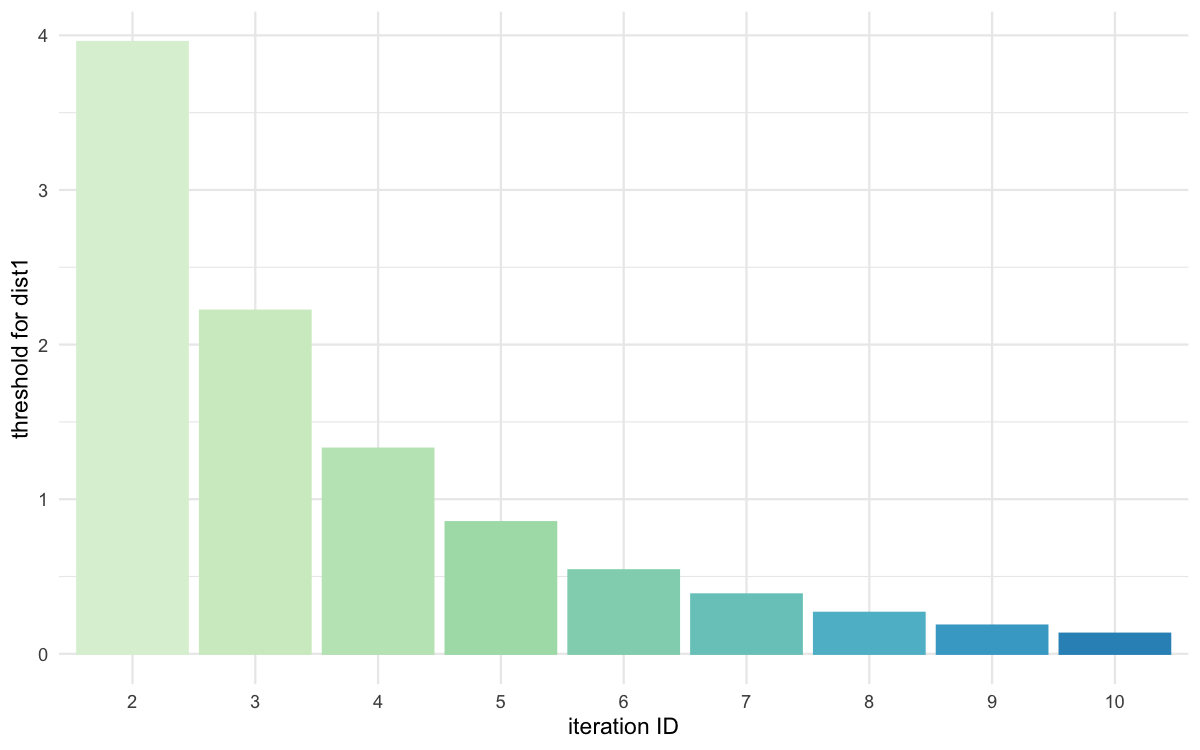
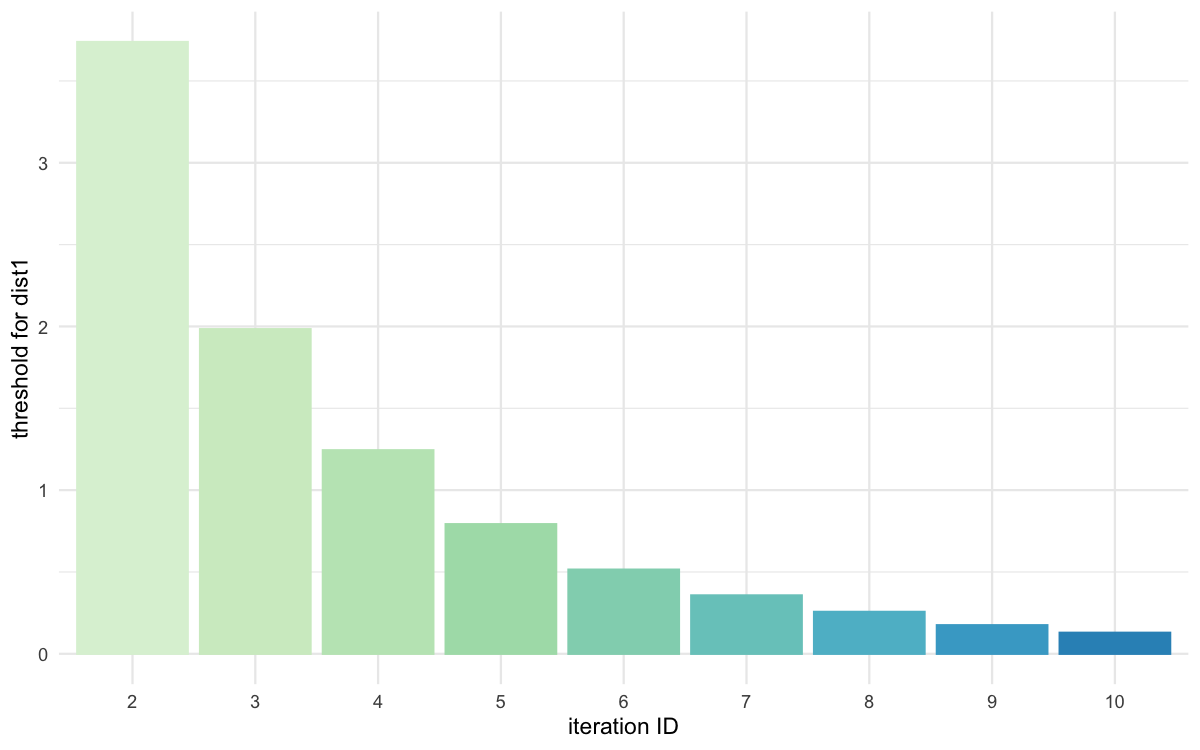
Update README

diff --git a/README.md b/README.md
@@ -6,7 +6,7 @@
 <!-- badges: start -->
 <!-- badges: end -->
 
-BRREW-ABC (Batched Resilient and Rapid Estimation Workflow through
+BRREWABC (Batched Resilient and Rapid Estimation Workflow through
 Approximate Bayesian Computation) : an R package designed to facilitate
 inference through a parallelized Approximate Bayesian Computation
 Sequential Monte Carlo (ABC SMC) algorithm. This package streamlines the
@@ -20,7 +20,7 @@ You can install the development version of BRREWABC from
 
 ``` r
 # install.packages("devtools")
-devtools::install_github("GaelBn/BRREW-ABC")
+devtools::install_github("GaelBn/BRREWABC")
 ```
 
 ## Usage
@@ -63,40 +63,40 @@ res = abcsmc(model_list = MODEL_LIST, prior_dist = PRIOR_DIST,
 #> prtrbtn_krnl_sd: NA NA 
 #> -
 #> gen 2 
-#> threshold: 3.957004 
-#> prtrbtn_krnl_sd: 1.15533 0.2888219 
+#> threshold: 3.737803 
+#> prtrbtn_krnl_sd: 1.155267 0.2888316 
 #> -
 #> gen 3 
-#> threshold: 2.21928 
-#> prtrbtn_krnl_sd: 0.9438753 0.2654561 
+#> threshold: 1.983287 
+#> prtrbtn_krnl_sd: 0.9096719 0.260107 
 #> -
 #> gen 4 
-#> threshold: 1.326846 
-#> prtrbtn_krnl_sd: 0.7723687 0.2661741 
+#> threshold: 1.24357 
+#> prtrbtn_krnl_sd: 0.7365027 0.2600087 
 #> -
 #> gen 5 
-#> threshold: 0.8512537 
-#> prtrbtn_krnl_sd: 0.6380401 0.2745553 
+#> threshold: 0.7919258 
+#> prtrbtn_krnl_sd: 0.6140646 0.2642821 
 #> -
 #> gen 6 
-#> threshold: 0.540139 
-#> prtrbtn_krnl_sd: 0.542202 0.2599372 
+#> threshold: 0.5143133 
+#> prtrbtn_krnl_sd: 0.5233506 0.2621831 
 #> -
 #> gen 7 
-#> threshold: 0.3840295 
-#> prtrbtn_krnl_sd: 0.474508 0.251434 
+#> threshold: 0.3568089 
+#> prtrbtn_krnl_sd: 0.4602892 0.2574246 
 #> -
 #> gen 8 
-#> threshold: 0.2651064 
-#> prtrbtn_krnl_sd: 0.4081638 0.2415765 
+#> threshold: 0.2562583 
+#> prtrbtn_krnl_sd: 0.4206442 0.2448884 
 #> -
 #> gen 9 
-#> threshold: 0.1826087 
-#> prtrbtn_krnl_sd: 0.3521538 0.227762 
+#> threshold: 0.1746439 
+#> prtrbtn_krnl_sd: 0.3752413 0.2300746 
 #> -
 #> gen 10 
-#> threshold: 0.1300748 
-#> prtrbtn_krnl_sd: 0.3267991 0.2101253 
+#> threshold: 0.1286489 
+#> prtrbtn_krnl_sd: 0.3576637 0.2233128 
 #> -
 #> Experiment done!
 
